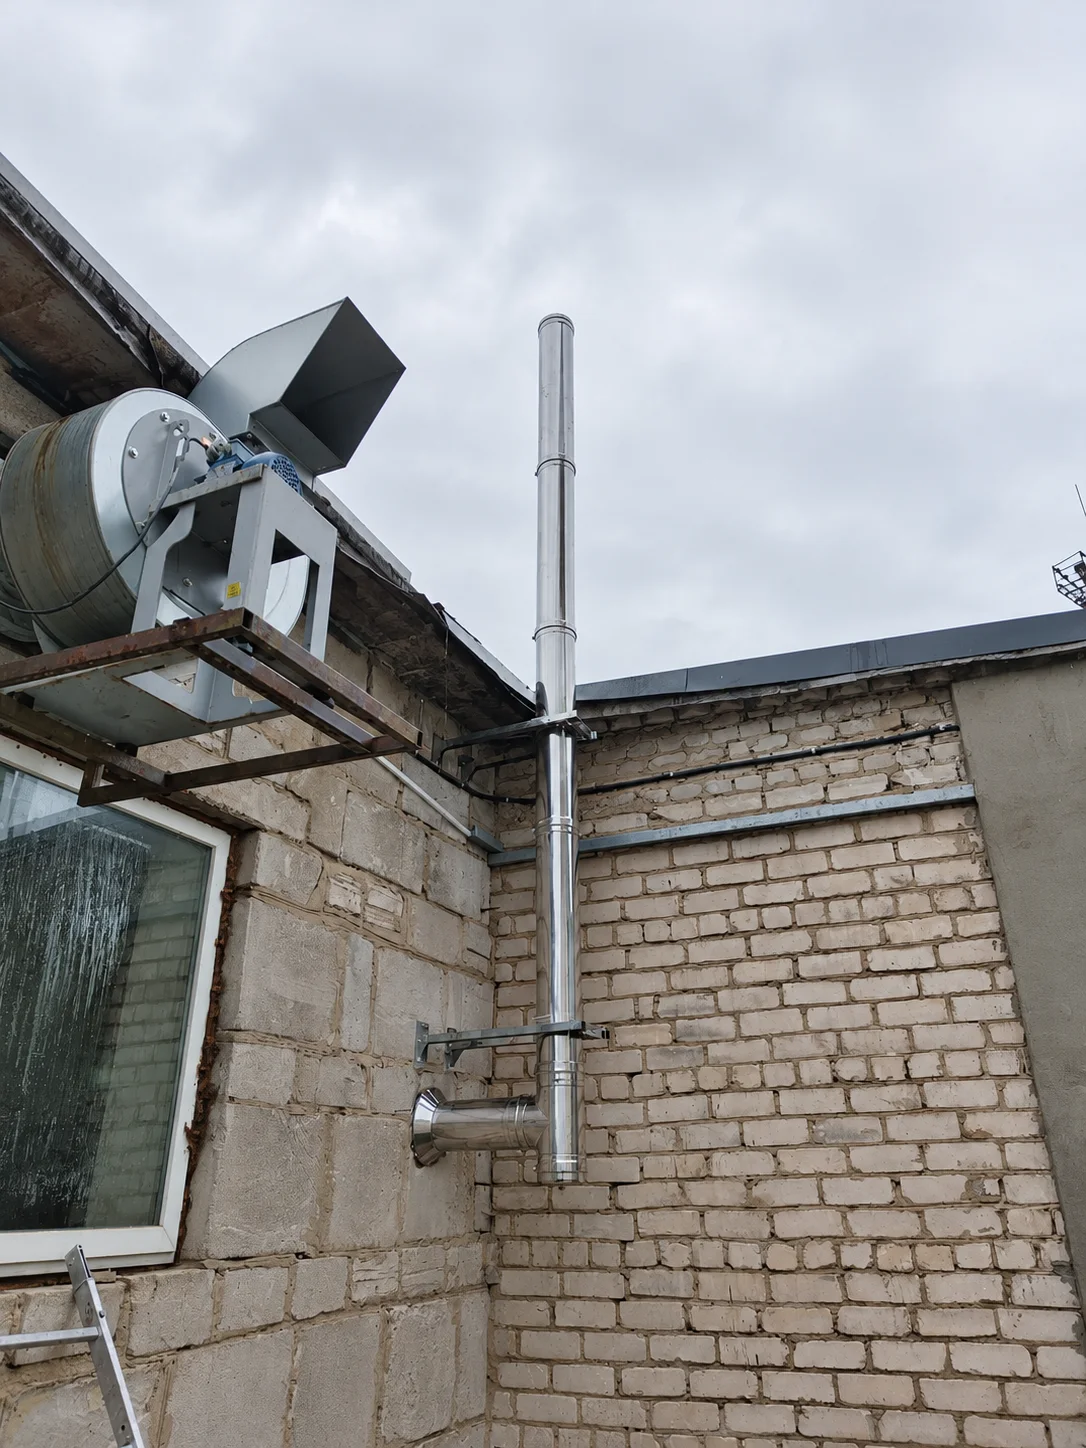
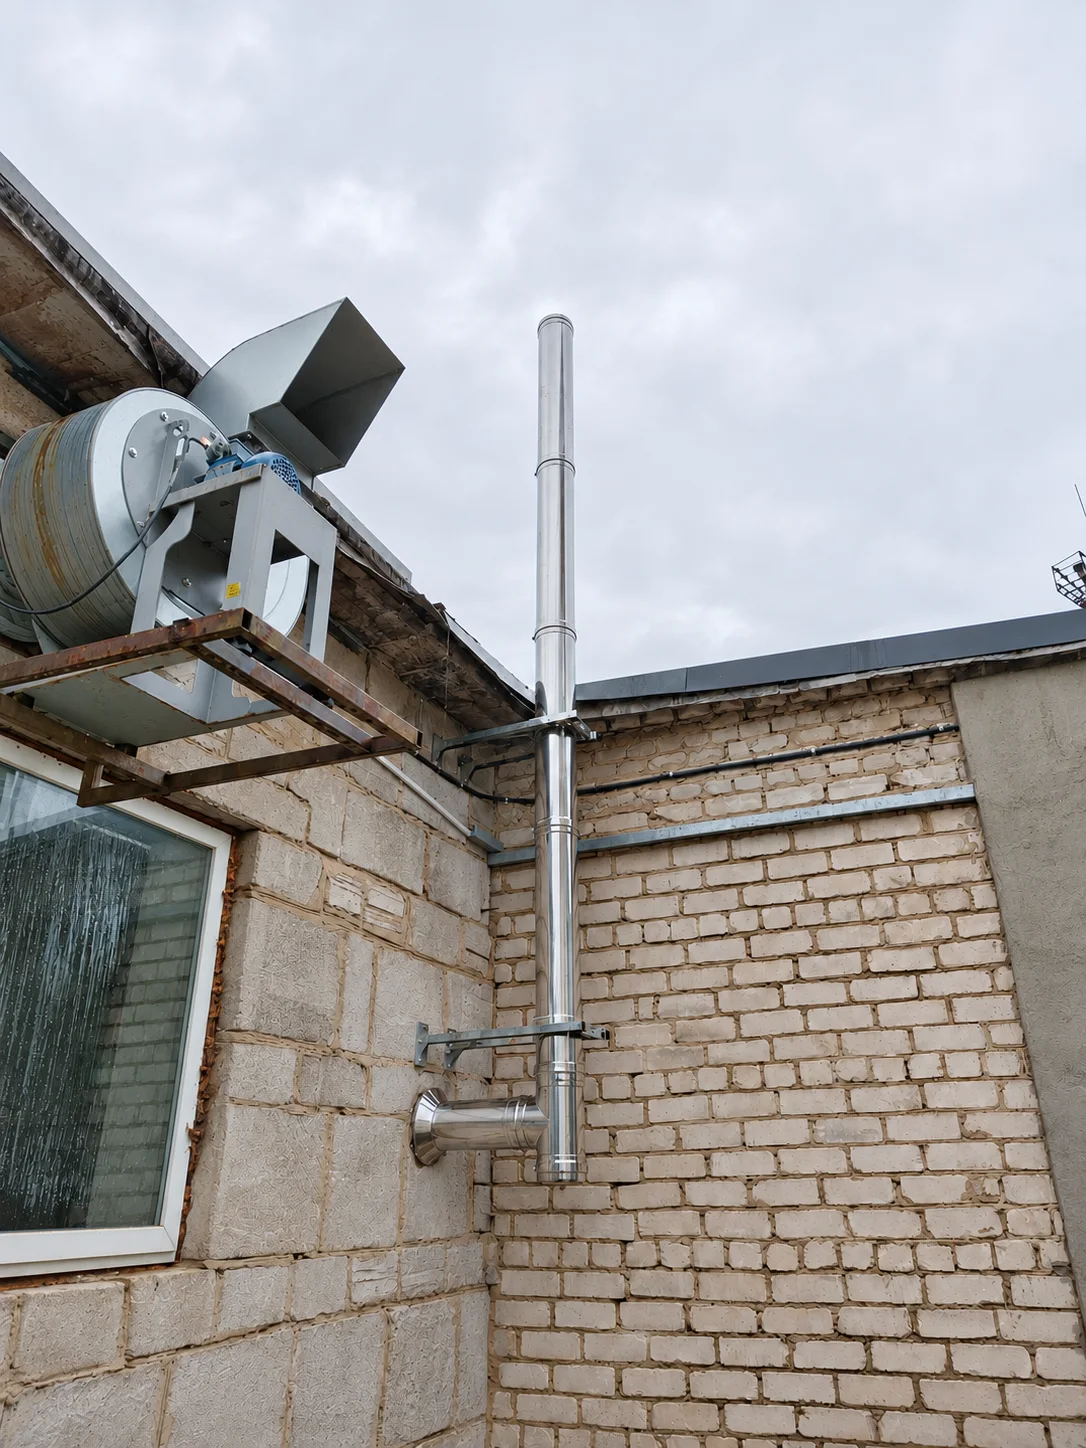
Retouch temporary clutter from Lida project photos and refresh cover

diff --git a/resources/content/lida-pellet-chimney/image-prompts.md b/resources/content/lida-pellet-chimney/image-prompts.md
@@ -15,3 +15,9 @@ Edit target: this exact supplied installation photograph. Use case: lighting-wea
 ## Cover — cover.webp
 
 Use case compositing. Create a landscape 16:9 editorial cover by arranging these two exact documentary photos in two equal-height panels, chimney photo left and boiler photo right, separated by a narrow warm-white gutter, on warm-white background. Keep both complete portrait photos visible, with top and bottom intact: entire chimney from cap to bottom, entire boiler from top to bottom. Letterboxing/padding at sides is acceptable and preferred to cropping. DO NOT reconstruct, redraw, extend or invent any part of either photograph; do not move, add, remove or alter equipment, pipe joints, brackets or room details. No captions, text, logo, illustration or decorative objects. Clean photographic diptych for a heating installation case study. Output one landscape image.
+
+## Cleanup revision requested by the user
+
+Built-in image_gen retouched boiler-connection, pellet-boiler and chimney-overview: removed temporary clutter (partial people/clothing, bags, loose tools/offcuts and the portable ladder) and surface construction dust on the boiler. Permanent equipment, ventilation, wiring, supports and wall finish were to remain. The cover was regenerated using the cleaned boiler image. Original generated files remain under Codex generated_images; project WebP outputs use the same article asset paths.
+
+Final cleanup prompt: Precise photographic retouch of this edit target for a real installation case study. Remove only temporary visual clutter: any partial person or loose clothing at the image edges, plastic bags, portable loose tools, loose metal offcuts, and (if present) the portable ladder at the lower image edge. Remove loose construction dust from the black boiler's top surface. Naturally fill the small areas behind removed clutter with matching existing wall/floor texture, without redesign or renovation. Preserve ALL permanent equipment and installation details EXACTLY: boiler shape, doors, handles, logo, thermometer, chimney pipes, joints, clamps, supports, wall penetration, wiring, electrical boxes and outlets, heating pipes, radiator, window, roof, and the permanent ventilation fan if outdoors. Do not remove any permanent ventilation unit or structural support. Keep existing wall marks, original room layout and chimney geometry; do not repaint walls. Keep the already improved exposure and white balance. Same portrait framing. No text, added objects, advertising graphics or altered technical details. Output one realistically retouched photograph.
